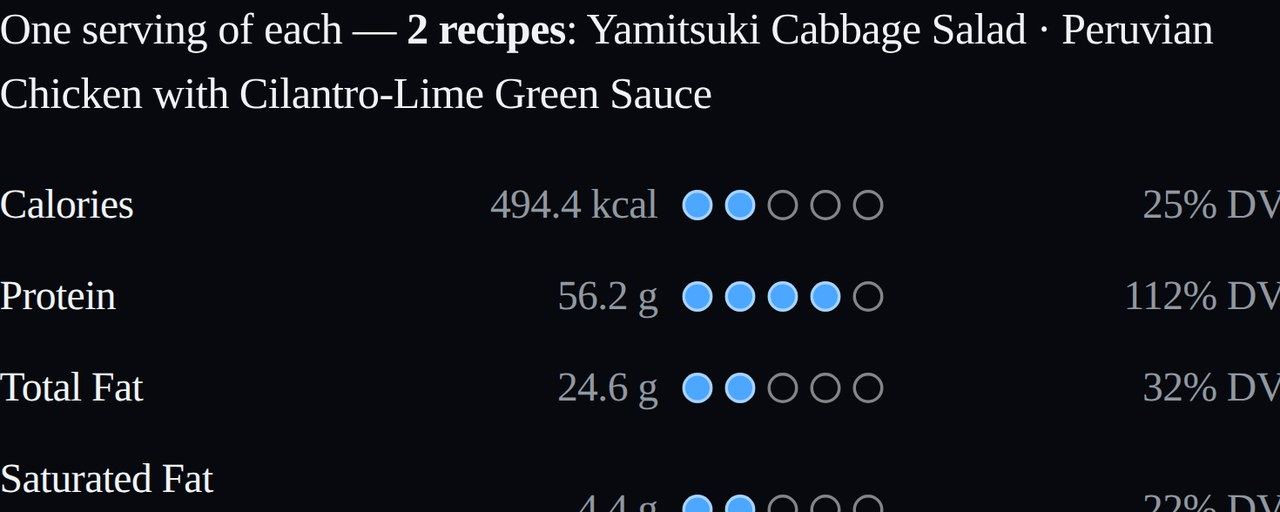
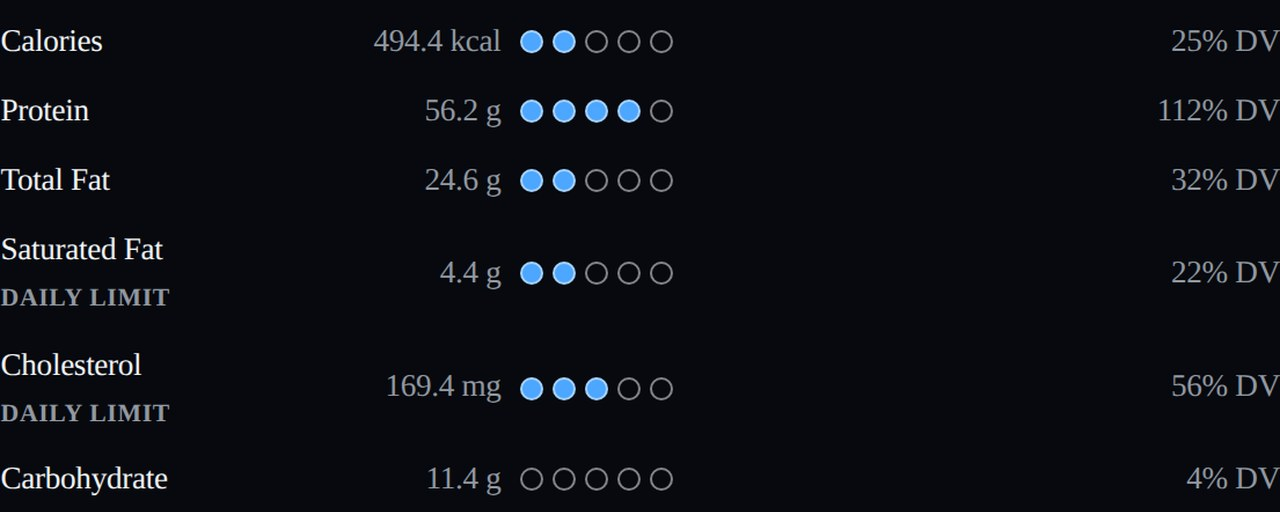
Recipes: clear the title under the Targets bar at desktop widths, regroup the cook-view pair row, and replace the tool door image with a whole-rows crop

diff --git a/recipes.html b/recipes.html
@@ -674,7 +674,9 @@
     .pair-cook-btn { font-size: 0.75rem; font-weight: 700; padding: 5px 10px; border-radius: 999px; border: 1px solid var(--link-color); background: var(--link-color); color: #fff; cursor: pointer; white-space: nowrap; overflow: hidden; text-overflow: ellipsis; text-align: center; }
     #cookPairRow { flex: none; display: flex; align-items: center; gap: 0.6rem; padding: 0.4rem 0.9rem; font-size: 0.85rem; color: var(--text-color); }
     #cookPairRow[hidden] { display: none; }
-    #cookPairRow .cook-pair-label { flex: 1 1 auto; min-width: 0; }
+    /* The label does not grow: the Cook both button stays immediately
+       beside the pairing it acts on, at every width. */
+    #cookPairRow .cook-pair-label { flex: 0 1 auto; min-width: 0; }
     #cookPairBtn { font-size: 0.75rem; font-weight: 700; padding: 5px 10px; border-radius: 999px; border: 1px solid var(--link-color); background: var(--link-color); color: #fff; cursor: pointer; white-space: nowrap; flex: none; }
     /* Dish-row serving steppers in the bubble: the combiner list's own
        stepper, always shown here (the list reveals its own only on
@@ -9469,7 +9471,12 @@
         var anyToggle = document.querySelector('.info-toggle');
         if (anyToggle && anyToggle.offsetHeight) rootEl.style.setProperty('--tip-row-h', anyToggle.offsetHeight + 'px');
         var bodyMt = parseFloat(getComputedStyle(document.body).marginTop) || 0;
-        var need = nav.offsetHeight + targetsBar.offsetHeight + 12 - bodyMt;
+        /* The header's margin-top collapses with the nav's own bottom
+           margin (adjacent margins take the larger, they do not add), so
+           the published clearance must never fall below the bar's own
+           height + 12 -- floored here, the title clears the bar at every
+           width, desktop's large body margin included. */
+        var need = Math.max(nav.offsetHeight + targetsBar.offsetHeight + 12 - bodyMt, targetsBar.offsetHeight + 12);
         rootEl.style.setProperty('--back-clear', Math.max(0, Math.round(need)) + 'px');
     }
     /* Slot-covered: the recipe-name bar owns the slot while it is
